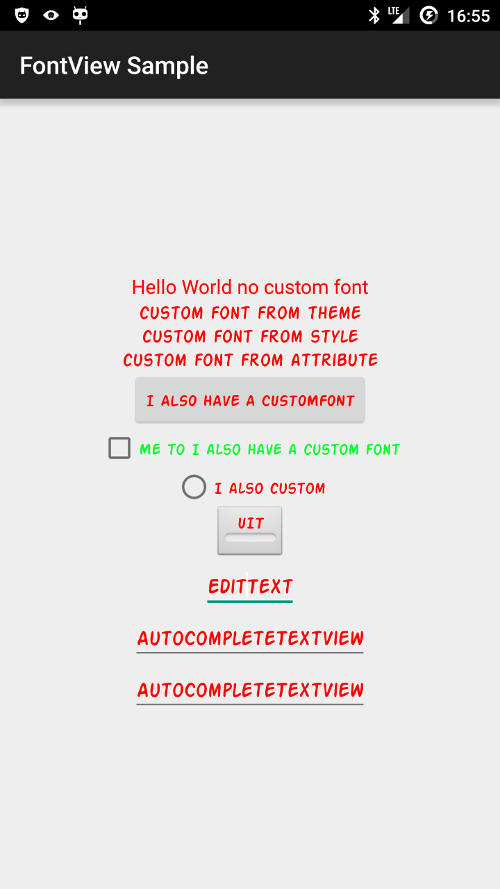
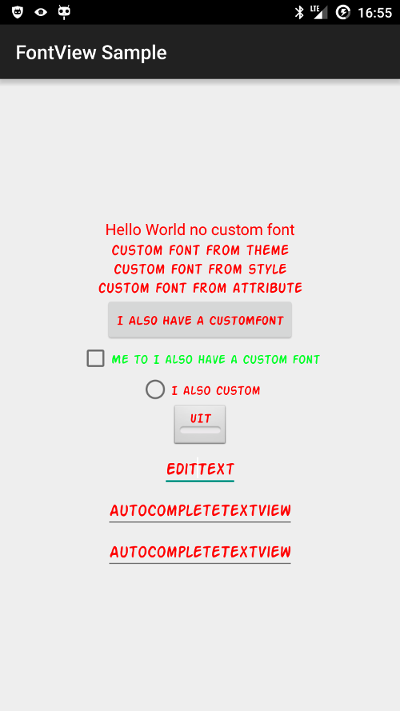
updated readme and resize image

diff --git a/README.md b/README.md
@@ -2,7 +2,7 @@ letterpress
 ==============
 Custom fonts without writing code.
 
-![Sample app](https://raw.githubusercontent.com/Pixplicity/letterpress/master/raw/sample.png)
+<img src="https://raw.githubusercontent.com/Pixplicity/letterpress/master/raw/sample.png" width="350px"/>
 
 Add custom fonts to your app with out writing code, just add the fonts to your them and use the customViews.
 
@@ -56,3 +56,23 @@ Then in your layouts just use `FontTextView` instead of `TextView` and it will u
         android:text="custom font from theme"/>
 
 You can apply your custom fonts in a few ways via the Theme or via styles directly on the view or via the view attributes `pix_font`, `pix_fontBold`,`pix_fontItalic` or `pix_fontBoldItalic`
+
+# Download
+Download the latest [AAR](http://search.maven.org/#search|ga|1|g:"com.pixplicity.letterpress") or grab via Maven:
+```XML
+<dependency>
+  <groupId>com.pixplicity.letterpress</groupId>
+  <artifactId>library</artifactId>
+  <version>1.0</version>
+  <type>aar</type>
+</dependency>
+```
+
+or Gradle:
+```Java
+compile 'com.pixplicity.letterpress:library:1.0'
+```
+
+## License
+
+Licensed under the Apache license.
